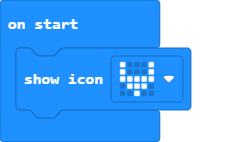
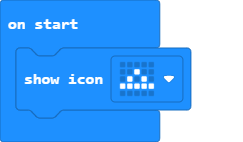
removed the ANY from the switch dropdown

diff --git a/switch.ts b/switch.ts
@@ -16,14 +16,9 @@ namespace RainbowSparkleUnicorn {
     switchPin: switchPins,
     handler: () => void
   ) {
+    control.onEvent(RAINBOW_SPARKLE_UNICORN_SWITCH_PRESSED, switchPin,  () => {
 
-    control.onEvent(RAINBOW_SPARKLE_UNICORN_SWITCH_PRESSED,
-      switchPin === switchPins.Any ? EventBusValue.MICROBIT_EVT_ANY : switchPin,
-      () => {
-
-        if (switchPin != switchPins.Any){
-                SX1509state[switchPin] = switchState.pressed;   
-        }
+        SX1509state[switchPin] = switchState.pressed;   
 
         handler();
       }
@@ -46,14 +41,9 @@ namespace RainbowSparkleUnicorn {
     switchPin: switchPins,
     handler: () => void
   ) {
+    control.onEvent(RAINBOW_SPARKLE_UNICORN_SWITCH_RELEASED, switchPin , () => {
 
-    control.onEvent(RAINBOW_SPARKLE_UNICORN_SWITCH_RELEASED,
-      switchPin === switchPins.Any ? EventBusValue.MICROBIT_EVT_ANY : switchPin,
-      () => {
-
-        if (switchPin != switchPins.Any){
-                SX1509state[switchPin] = switchState.released;   
-        }
+        SX1509state[switchPin] = switchState.released;   
 
         handler();
       }
@@ -61,7 +51,7 @@ namespace RainbowSparkleUnicorn {
   }    
 
 
-export enum switchState {
+export const enum switchState {
     //% block="pressed"
     pressed = 1,
     //% block="released"
@@ -69,32 +59,38 @@ export enum switchState {
 }    
 
 export const enum switchPins {
-    //% block="1"    
-    SP1 = 1,
-    //% block="2"    
-    SP2 = 2,
-    //% block="3" 
-    SP3 = 3,
-    //% block="4" 
-    SP4 = 4,
-    //% block="5" 
-    SP5 = 5,
-    //% block="6" 
-    SP6 = 6,
-    //% block="7" 
-    SP7 = 7,
-    //% block="8" 
-    SP8 = 8,
-    //% block="9" 
-    SP9 = 9,
-    //% block="10" 
-    SP10 = 10,
-    //% block="11" 
-    SP11 = 11,
-    //% block="12"     
-    SP12 = 12,
-    //% block="any"
-    Any = 1 << 30
+    //% block="Pin 0"
+    Switch0 = 0,      
+    //% block="Pin 1"
+    Switch1 = 1,
+    //% block="Pin 2"
+    Switch2 = 2,
+    //% block="Pin 3"
+    Switch3 = 3,  
+    //% block="Pin 4"
+    Switch4 = 4,
+    //% block="Pin 5"
+    Switch5 = 5,
+    //% block="Pin 6"
+    Switch6 = 6,
+    //% block="Pin 7"
+    Switch7 = 7,
+    //% block="Pin 8"
+    Switch8 = 8,
+    //% block="Pin 9"
+    Switch9 = 9,
+    //% block="Pin 10"
+    Switch10 = 10,
+    //% block="Pin 11"
+    Switch11 = 11,
+    //% block="Pin 12"
+    Switch12 = 12,
+    //% block="Pin 13"
+    Switch13 = 13,
+    //% block="Pin 14"
+    Switch14 = 14,
+    //% block="Pin 15"
+    Switch15 = 15
 }
 
 

diff --git a/main.ts b/main.ts
@@ -1,1 +1,1 @@
-basic.showIcon(IconNames.EigthNote)
+basic.showIcon(IconNames.Triangle)
